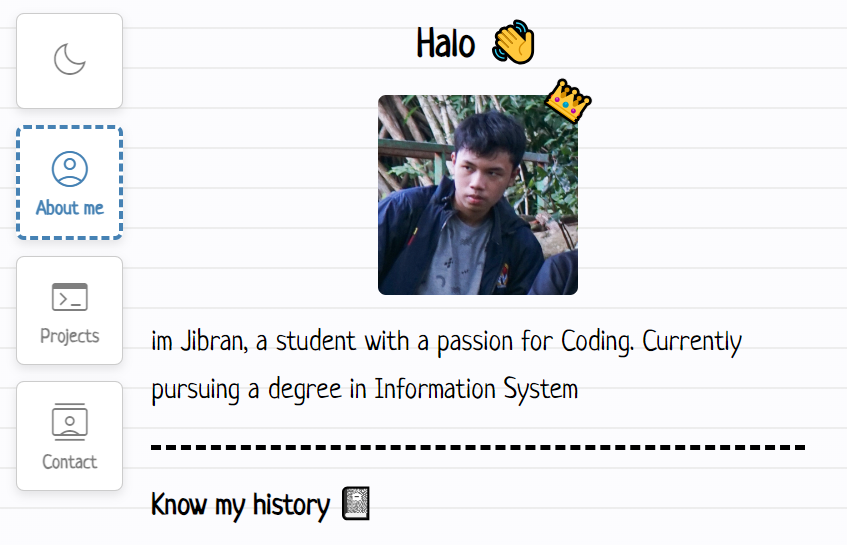
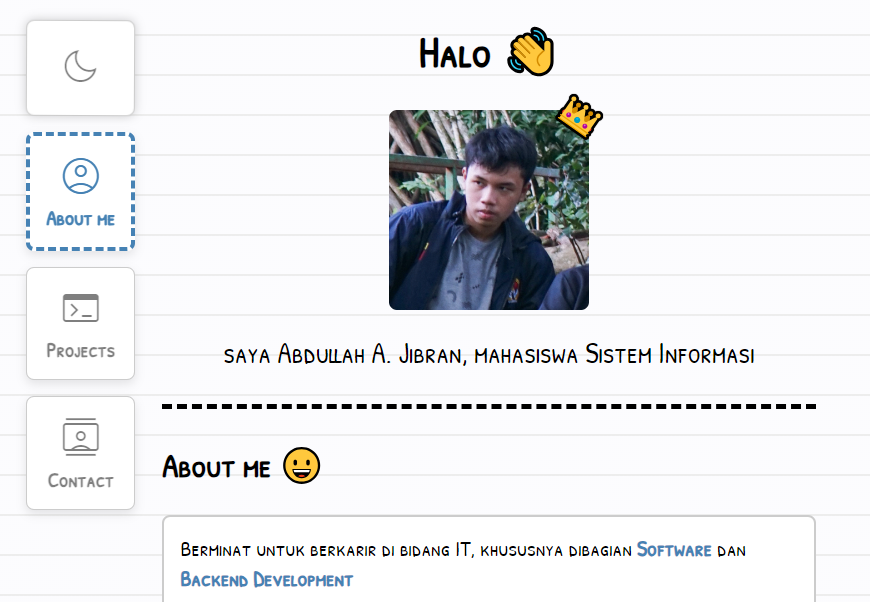
update

diff --git a/index.html b/index.html
@@ -15,10 +15,17 @@
       content="Halo 👋 - im Jibran, a student with a passion for Coding. Currently pursuing a degree in Information System"
     />
     <meta property="og:site_name" content="Abdullah A. Jibran Portfolio" />
-    <meta property="og:image" content="https://noblefel.github.io/portfolio/images/og.PNG" />
+    <meta
+      property="og:image"
+      content="https://noblefel.github.io/portfolio/images/og.PNG"
+    />
     <script src="./script.js" defer></script>
-    <link rel="icon" href="./images/icon.PNG">
+    <link rel="icon" href="./images/icon.PNG" />
     <link rel="stylesheet" href="./style.css" />
+    <link
+      rel="preconnect"
+      href="https://fonts.googleapis.com/css?family=Neucha|Patrick+Hand+SC&display=swap"
+    />
     <link
       rel="stylesheet"
       href="https://fonts.googleapis.com/css2?family=Material+Symbols+Outlined:opsz,wght,FILL,GRAD@24,200,0,0"
@@ -71,53 +78,43 @@
 
         <div class="hero">
           <div>
-            <img src="./images/profile.jpg" alt="profile avatar" width="200px" />
+            <img
+              src="./images/profile.jpg"
+              alt="profile avatar"
+              width="200px"
+            />
             <span>👑</span>
           </div>
-          <p>
-            im Jibran, a student with a passion for Coding. Currently pursuing a
-            degree in Information System
-          </p>
+          <p>saya Abdullah A. Jibran, mahasiswa Sistem Informasi</p>
         </div>
 
         <div class="divider"></div>
 
-        <h2>Know my history 📓</h2>
+        <h2>About me 😀</h2>
         <article class="history">
           <p>
-            Before coding, i could not find anything that can be of interest to
-            me, everything just doesnt "click". Until i came across this
-            <a href="https://www.freecodecamp.org/" target="_blank">site</a>...
-            and the rest is history.
+            Berminat untuk berkarir di bidang IT, khususnya dibagian
+            <b>Software</b> dan <b>Backend Development</b>
           </p>
 
           <p>
-            My other learning source is
-            <a href="https://udemy.com" target="_blank">Udemy</a>, a great
-            platform when i was starting out. But still, back then i was
-            skeptical if this was a right path for me but slowly but surely i
-            found it was a good fit and besides, its just really really
-            enjoyable.
+            Mengikuti prinsip <b>KISS</b> (keep it simple, stupid) yang bisa
+            juga dibilang kalau saya itu bersifat minimalis
           </p>
 
-          <br />
-          <b># Tidbits</b>
-          <ul>
-            <li>
-              learnt how to code by <b>doing</b> (theory never worked with me)
-            </li>
-            <li>firm believer of the <b>KISS</b> principle</li>
-            <li>trying to get used to <b>Test-Driven Development</b></li>
-          </ul>
+          <p>
+            <b>Test Driven Development</b> menjadi salah satu prioritas saya
+            saat membuat program
+          </p>
         </article>
 
-        <h2>Education 🏫</h2>
+        <h2>Edukasi 🏫</h2>
         <article class="education">
           <i class="material-symbols-outlined">construction</i>
           <p>To be added</p>
         </article>
 
-        <h2>Technologies i <span style="color: steelblue">mainly</span> use</h2>
+        <h2><span style="color: steelblue">Teknologi</span> yang dipakai</h2>
         <div class="technologies">
           <article>
             <img src="./images/go.png" alt="Go programming language logo" />
@@ -131,7 +128,7 @@
         </div>
 
         <h2>
-          Technologies i <span style="color: darkorchid">want</span> to learn
+          Teknologi yang mau <span style="color: darkorchid">dipelajari</span>
         </h2>
         <div class="technologies-wishlist">
           <article>
@@ -164,6 +161,7 @@
             <img
               src="./images/term-rpg.png"
               alt="terminal screenshot of the game showing player's and enemy's hp during battle"
+              loading="lazy"
             />
             <a href="https://github.com/Noblefel/term-rpg" target="_blank">
               <h1>term-rpg</h1>
@@ -178,13 +176,14 @@
             <img
               src="./images/Manortalk.jpg"
               alt="screenshot of web app showing the search page and list of all the posts found"
+              loading="lazy"
             />
             <a href="https://github.com/Noblefel/Manortalk" target="_blank">
               <h1>ManorTalk</h1>
             </a>
             <p>
-              Blogging app include filters, search and pagination through
-              RestAPI
+              Blogging platform dengan queries, pagination, dan otentikasi
+              Oauth.
             </p>
             <div class="tags">
               <span>Web</span>
@@ -196,14 +195,12 @@
             <img
               src="./images/stove.jpg"
               alt="image of a nicely formatted table in a pdf"
+              loading="lazy"
             />
             <a href="https://github.com/Noblefel/stove" target="_blank">
               <h1>STOVE</h1>
             </a>
-            <p>
-              Reads a CSV file, then generates the formatted HTML table, and
-              converts it into a PDF
-            </p>
+            <p>Membuat tampilan tabel dari file csv</p>
             <div class="tags">
               <span>Tool</span>
             </div>
@@ -213,14 +210,15 @@
             <img
               src="./images/InnOne.jpg"
               alt="screenshot of web app showing the room description and checkout section"
+              loading="lazy"
             />
             <a
               href="https://github.com/Noblefel/InnOne-bookings-web-app"
               target="_blank"
             >
-              <h1>InnOne (learning)</h1>
+              <h1>InnOne</h1>
             </a>
-            <p>Learning go by building multi-page app</p>
+            <p>Repositori saat belajar Go (web)</p>
             <div class="tags">
               <span>Web</span>
               <span>Multi-page</span>
@@ -231,6 +229,7 @@
             <img
               src="./images/contact-management.png"
               alt="screenshot of formatted json response"
+              loading="lazy"
             />
             <a
               href="https://github.com/Noblefel/Rest-Api-Managemen-Kontak"
@@ -238,7 +237,10 @@
             >
               <h1>Contact API (learning)</h1>
             </a>
-            <p>Learning go by building Restful API</p>
+            <p>
+              Repository saat belajar RESTful API. Serta in-memory storage yang
+              dibuat dari scratch
+            </p>
             <div class="tags">
               <span>API</span>
             </div>
@@ -248,6 +250,7 @@
             <img
               src="./images/pendaftaran-kursus.png"
               alt="screenshot terminal di bagian menu utama simulasi"
+              loading="lazy"
             />
             <a
               href="https://github.com/Noblefel/Simulasi-Pendaftaran-Kursus"

diff --git a/style.css b/style.css
@@ -1,12 +1,12 @@
-@import url("https://fonts.googleapis.com/css?family=Neucha|Patrick+Hand+SC&display=swap");
+@import url("https://fonts.googleapis.com/css?family=Patrick+Hand+SC&display=swap");
 @import "./about.css";
 @import "./projects.css";
 @import "./contact.css";
 
 body {
   height: 100vh;
-  font-family: "Neucha", "Segoe Ui";
-  font-size: 20px;
+  font-family: "Patrick Hand SC", "Segoe Ui";
+  font-size: 22px;
   background-size: 20px 40px;
   background-image: repeating-linear-gradient(
     0deg,
@@ -43,8 +43,7 @@ h1 {
 }
 
 p {
-  margin: 0;
-  line-height: 2.2rem;
+  margin: 0 0 0.75rem 0;
 }
 
 .layout {
@@ -71,8 +70,8 @@ nav.desktop {
     border: 1px solid rgba(0, 0, 0, 0.2);
     border-radius: 8px;
     background-color: white;
-    font-family: Neucha;
-    font-size: 1.2rem;
+    font-family: inherit;
+    font-size: 1.3rem;
     font-weight: 700;
     color: rgba(0, 0, 0, 0.5);
     cursor: pointer;

diff --git a/about.css b/about.css
@@ -2,7 +2,7 @@
   .hero {
     p {
       font-size: 1.8rem;
-      line-height: 3rem;
+      text-align: center;
     }
 
     > div {
@@ -29,14 +29,8 @@
     }
   }
 
-  .history {
-    ul {
-      padding: 0 1.5rem;
-    }
-
-    li:not(:last-of-type) {
-      margin-bottom: 0.5rem;
-    }
+  .history b {
+    color: steelblue;
   }
 
   .education {
